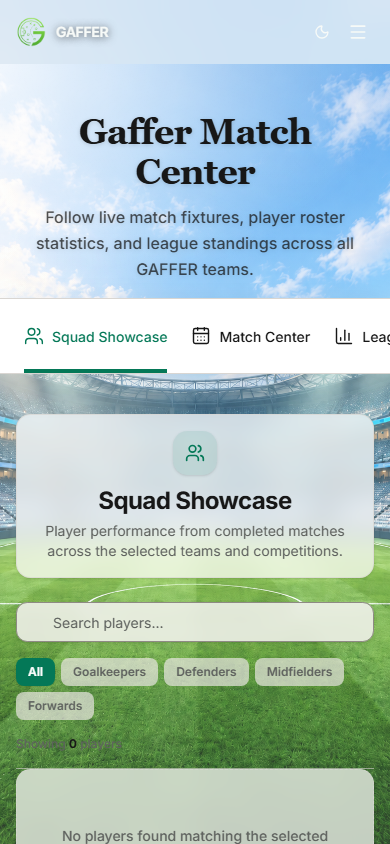
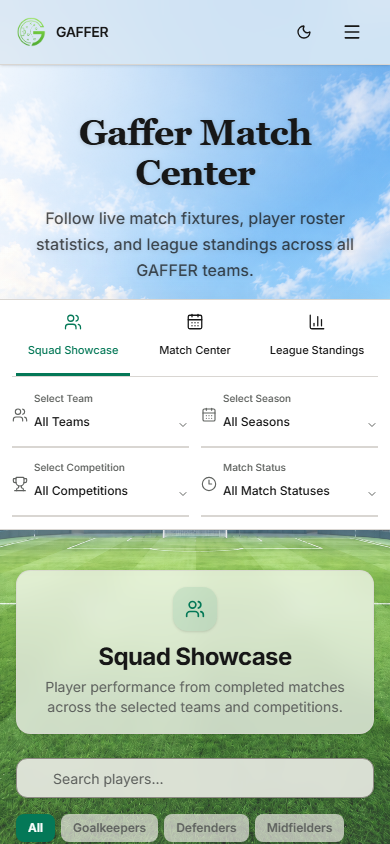
Fix(public dashboard): mobile navbar and filter bar
Co-Authored by: Codex [GPT 6 Sol]

diff --git a/frontend/src/index.css b/frontend/src/index.css
@@ -922,6 +922,89 @@ select:-webkit-autofill {
   .public-dashboard-filter-panel { padding-left: 12px; }
 }
 
+/* Keep the public dashboard's mobile navigation and filters inside the viewport. */
+@media (max-width: 767px) {
+  .public-dashboard-page > header {
+    background: color-mix(in srgb, var(--background) 95%, transparent);
+    color: var(--foreground);
+  }
+
+  .public-dashboard-page > header nav > a {
+    color: var(--foreground);
+    text-shadow: none;
+  }
+
+  .public-dashboard-page > header nav button {
+    min-width: 44px;
+    min-height: 44px;
+    color: var(--foreground);
+  }
+
+  .public-dashboard-page > header nav button:hover {
+    background: var(--muted);
+    color: var(--brand);
+  }
+
+  .public-dashboard-page .public-dashboard-toolbar {
+    flex-direction: column;
+    align-items: stretch;
+    gap: 0;
+    overflow: visible;
+    padding: 0 12px;
+  }
+
+  .public-dashboard-page .public-dashboard-section-nav { min-width: 0; }
+  .public-dashboard-page .public-dashboard-section-list {
+    display: grid;
+    width: 100%;
+    grid-template-columns: repeat(3, minmax(0, 1fr));
+  }
+
+  .public-dashboard-page .public-dashboard-section-link {
+    min-height: 76px;
+    flex-direction: column;
+    gap: 5px;
+    padding: 8px 4px;
+    font-size: 11px;
+    line-height: 14px;
+    text-align: center;
+    white-space: normal;
+  }
+
+  .public-dashboard-page .public-dashboard-section-link > span {
+    display: flex;
+    min-height: 28px;
+    align-items: center;
+    justify-content: center;
+  }
+
+  .public-dashboard-page .public-dashboard-section-link > svg { width: 18px; height: 18px; }
+  .public-dashboard-page .public-dashboard-section-link::after { right: 4px; left: 4px; height: 3px; }
+
+  .public-dashboard-page .public-dashboard-filter-panel {
+    flex: 0 1 auto;
+    flex-wrap: wrap;
+    gap: 6px;
+    min-width: 0;
+    margin: 0;
+    border-top: 1px solid var(--border);
+    border-left: 0;
+    padding: 8px 0 12px;
+  }
+
+  .public-dashboard-page .public-dashboard-filter-grid {
+    min-width: 0;
+    flex-basis: 100%;
+    grid-template-columns: repeat(2, minmax(0, 1fr));
+    gap: 6px 12px;
+  }
+
+  .public-dashboard-page .public-dashboard-filter-field { gap: 6px; }
+  .public-dashboard-page .public-dashboard-filter-select { min-height: 32px; }
+  .public-dashboard-page .public-dashboard-filter-reset { width: auto; min-height: 44px; margin-left: auto; gap: 6px; padding: 0 8px; }
+  .public-dashboard-page .public-dashboard-filter-reset::after { content: "Reset"; font-size: 12px; }
+}
+
 @media (prefers-reduced-motion: reduce) {
   .public-dashboard-section-link,
   .public-dashboard-section-link::after,

diff --git a/frontend/src/pages/PublicDashboard.tsx b/frontend/src/pages/PublicDashboard.tsx
@@ -767,10 +767,17 @@ function PublicDashboardSectionNav({
           }
         }
 
+        const mobileLayout = window.matchMedia("(max-width: 767px)").matches;
+        // Mobile's taller filter bar can leave adjacent sections in the observer
+        // band. Use current positions instead of cached entries after a jump.
+        const sectionTop = (entry: IntersectionObserverEntry) =>
+          mobileLayout
+            ? entry.target.getBoundingClientRect().top
+            : entry.boundingClientRect.top;
         const nextSection = [...visibleSections.values()].sort(
           (a, b) =>
-            Math.abs(a.boundingClientRect.top - window.innerHeight * 0.35) -
-            Math.abs(b.boundingClientRect.top - window.innerHeight * 0.35),
+            Math.abs(sectionTop(a) - window.innerHeight * 0.35) -
+            Math.abs(sectionTop(b) - window.innerHeight * 0.35),
         )[0]?.target.id;
 
         if (nextSection) {
